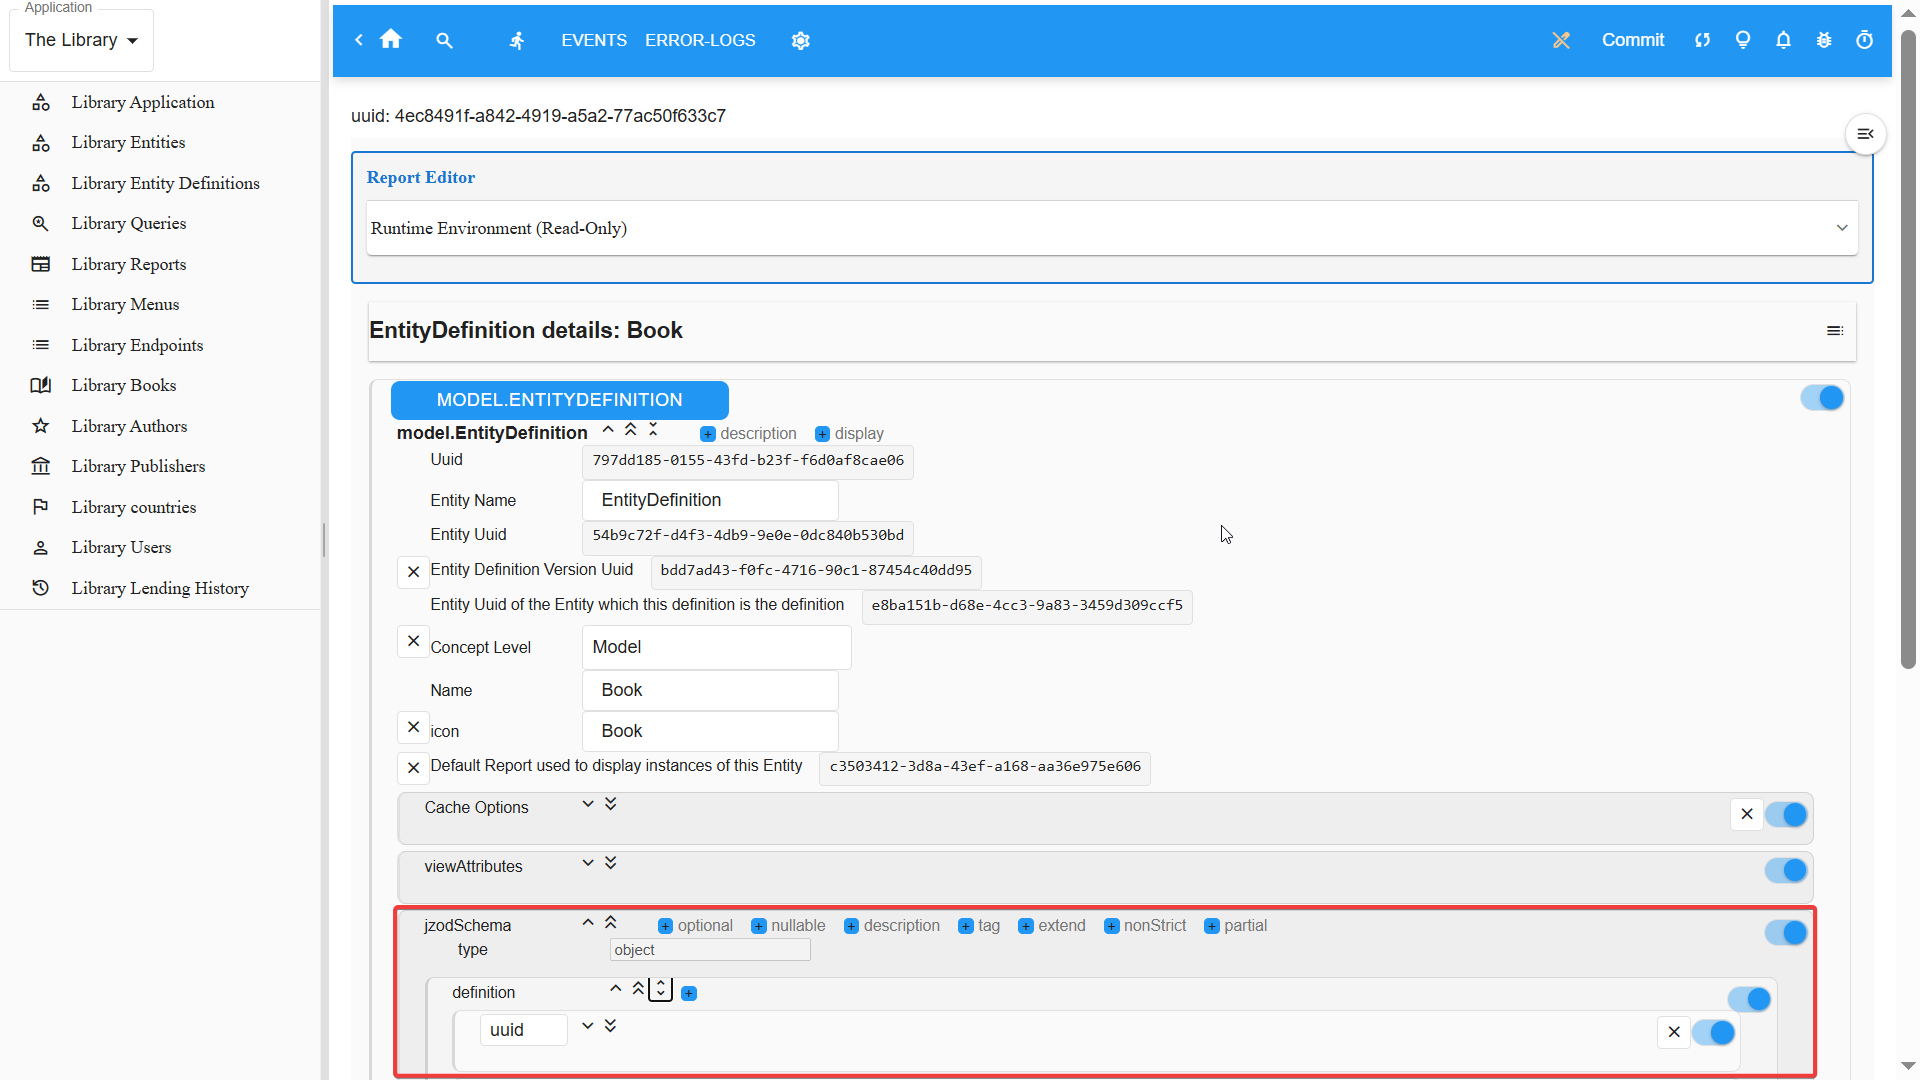
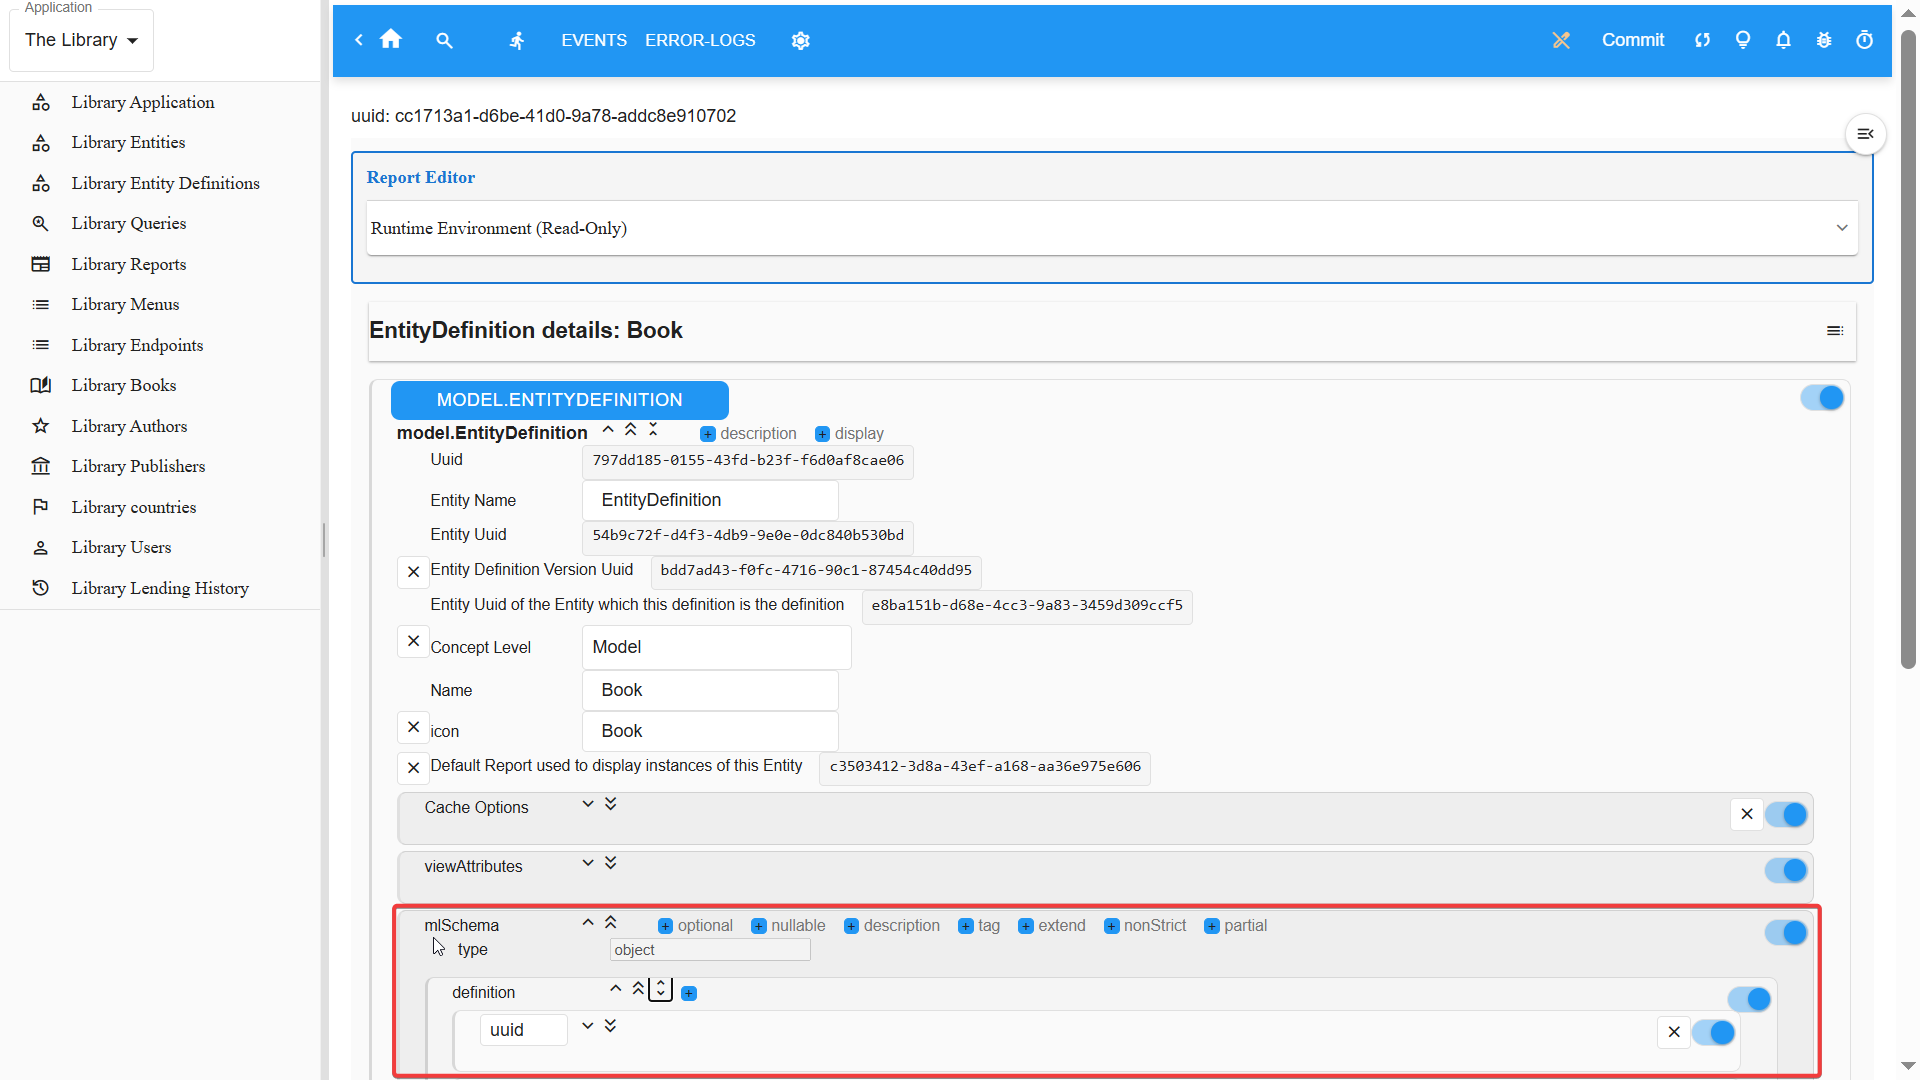
DOCUMENTATION: improve the Library Tutorial. Improving Part2 (Working with Entities)

Changed region(s): [[0.2188, 0.825, 0.9688, 1.0], [0.1875, 0.0917, 0.375, 0.1222]]

diff --git a/docs/libraryTutorial/libraryTutorial.md b/docs/libraryTutorial/libraryTutorial.md
@@ -28,7 +28,7 @@ The interface has three main areas:
 
 ### Browsing Data Through Entities
 
-<img src="./library_homepage_menu.jpg" alt="The Library Catalogue Menu" width="40%"/>
+<img src="./library_homepage_menu.jpg" alt="The Library Catalogue Menu" width="30%"/>
 
 The Library organizes its data into **Entities** - collections of related instances with a common structure:
 
@@ -164,7 +164,26 @@ This displays the definition, in which the attributes of the Entity are shown:
 
 <img src="./library-model-Book_entity_definition.png" alt="The Book Entity Definition" width="85%"/>
 
-Of particular interest is the `mlSchema` attribute, that describes the structure of a `Book`.
+Of special interest is the `mlSchema` attribute, that describes the structure of a `Book`:
+
+<img src="./library-model-Book_entity_definition_mlSchema.png" alt="The Book Entity Definition Attributes" width="85%"/>
+
+
+A `Book` has the following attributes:
+
+- **uuid**: Unique identifier for the book. Every entity instance must have one.
+- **parentName**: Name of the parent Entity or type (optional).
+- **parentUuid**: Unique identifier of the parent Entity. Every Entity instance must point to its Entity through this attribute.
+- **conceptLevel**: Level or type of concept (optional, `model` or `data`, usal objects are implicitly `data`).
+- **name**: The name of the book (title).
+- **year**: The year associated with the book (year of first publication).
+- **author**: Reference to the author of the book.
+- **publisher**: Reference to the publisher of the book.
+
+The `name` is a simple `string`, that will be shown as `Book Title` in forms:
+
+<img src="./library-model-Book_entity_definition_mlSchema_name.png" alt="The Book Entity Definition Attribute: 'name'" width="85%"/>
+
 
 
 <!-- These definitions are stored as JSON, not hardcoded in TypeScript. This is what makes Miroir applications data-driven. -->
